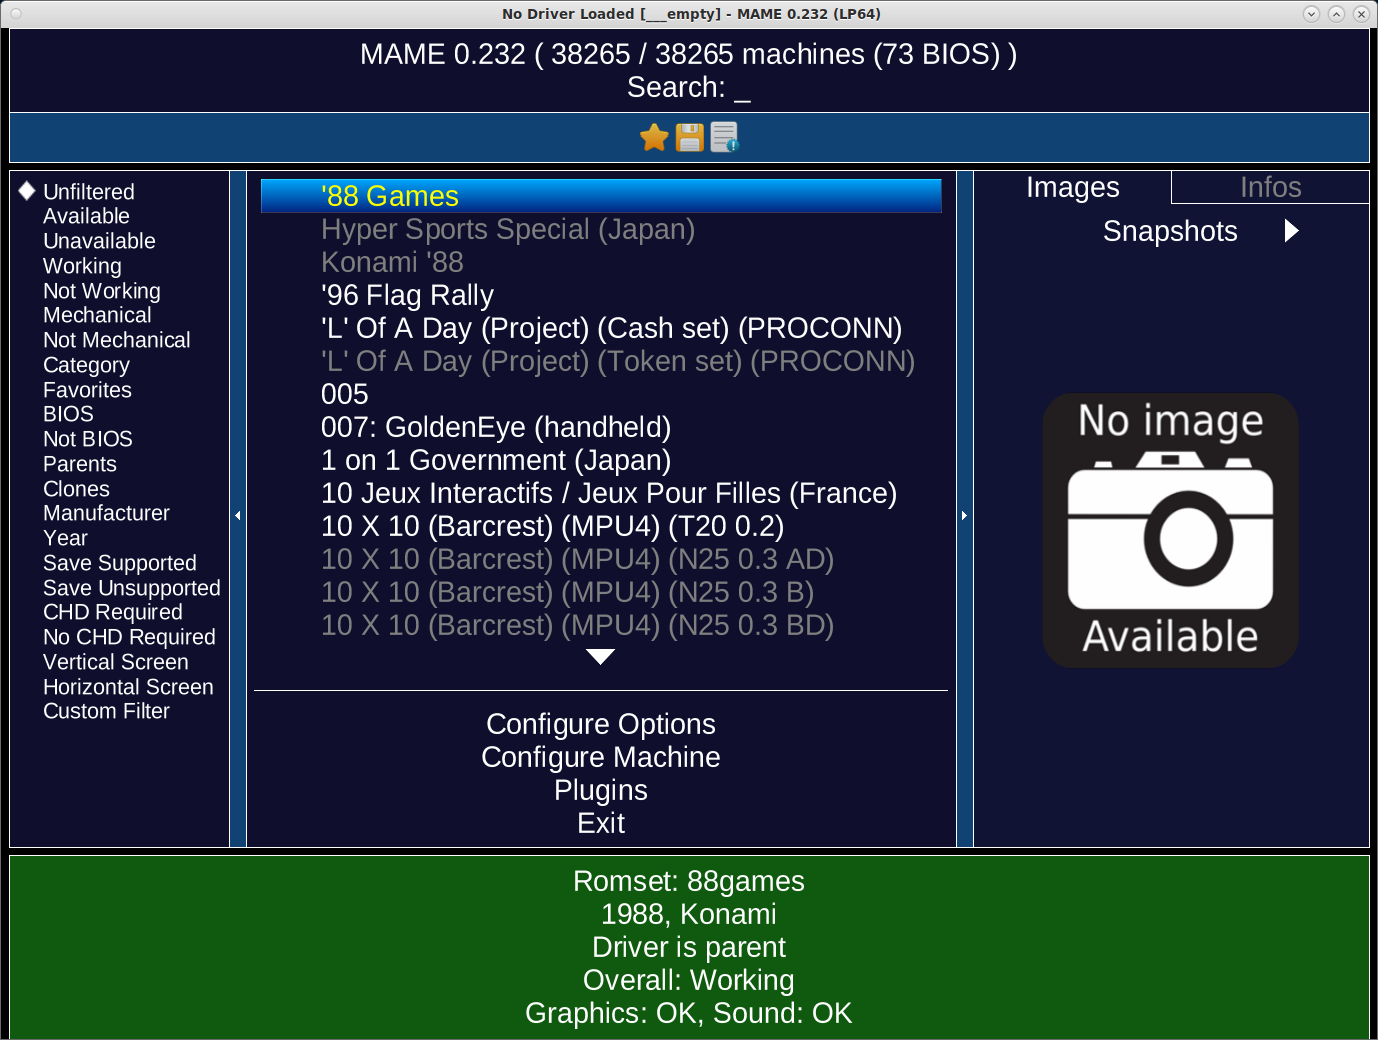
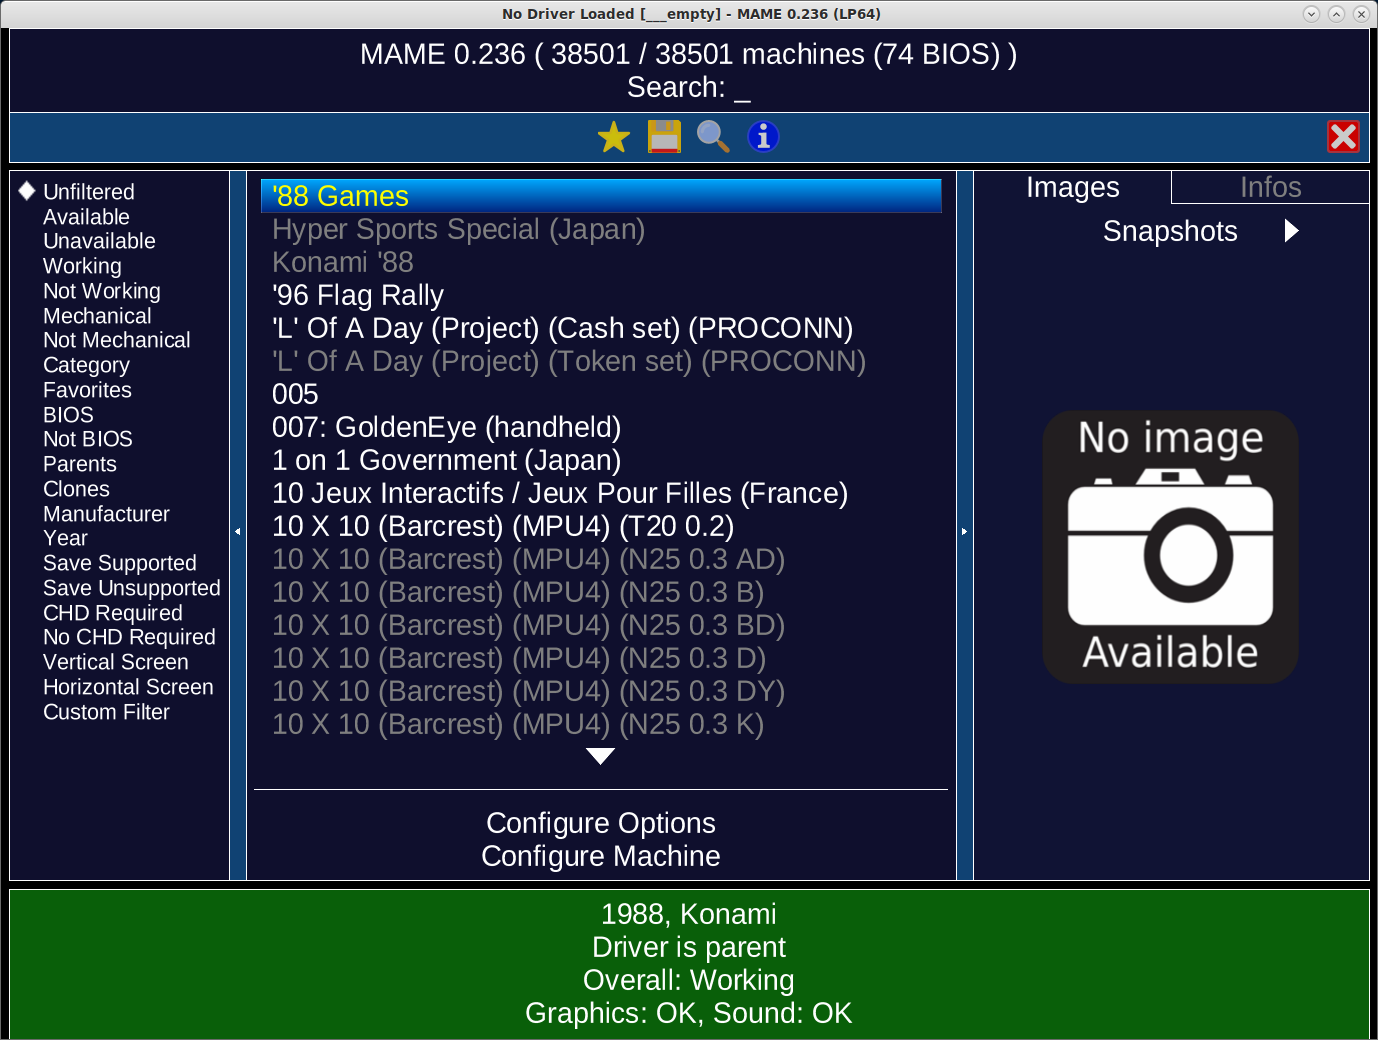
Atualiza as imagens com a nova interface do mame e outros ajustes

diff --git a/source/usingmame/usingmame.rst b/source/usingmame/usingmame.rst
@@ -31,9 +31,10 @@ Inicie o MAME clicando duas vezes no executável:
 	\clearpage
 
 Boa parte da interface já foi traduzida, para trocar o idioma da
-interface vá em ``Configure Options -> Customize UI``, clique duas vezes
-em ``Language``, role para baixo e selecione **Portuguese (Brazil)**.
-Retorne e **Salve a configuração**.
+interface vá em :guilabel:`Configure Options` -->
+:guilabel:`Customize UI`, clique duas vezes em :guilabel:`Language`,
+role para baixo e selecione :guilabel:`Portuguese (Brazil)`. Retorne e
+:guilabel:`Salve a configuração`.
 
 A versão da tradução compatível com este documento pode ser encontrado
 em `mamedoc <https://github.com/wtuemura/mamedoc>`_ ou mais precisamente
@@ -95,33 +96,35 @@ das máquinas mostram um ícone.
 	\clearpage
 
 Para iniciar uma máquina na lista que aparece ao centro da tela clique
-2x no nome da máquina desejada. Pressione **F12** durante a execução da
-máquina para que seja salvo um **print da tela** na pasta **snap**.
-Ao encerrar a emulação a imagem da tela vai aparecer do lado direito da
-interface do MAME.
+2x no nome da máquina desejada. Pressione :kbd:`F12` durante a execução
+da máquina para que seja salvo uma **captura da tela** na pasta
+**snap**. Ao encerrar a emulação a imagem da tela vai aparecer do lado
+direito da interface do MAME.
 
-.. figure:: images/mame_print_tela.png
+.. figure:: images/mame_captura_tela.png
 	:width: 100%
 	:align: center
 	:figclass: align-center
-	:alt: Print de tela
+	:alt: Captura da tela
 
 Ainda no site do **progetto-SNAPS** é possível encontrar imagens para
-completar todas as abas dentro de **Imagens** como **Gabinetes**,
-**Painéis de controle**, **PCB** e vários outros. Porém quanto mais
-itens visuais forem adicionados, mais e mais o MAME vai demorar para
-iniciar por causa dos arquivos extras, leve isso em consideração.
+completar todas as abas dentro de :guilabel:`Imagens` como
+:guilabel:`Gabinetes`, :guilabel:`Painéis de controle`, :guilabel:`PCI`
+e vários outros. Porém quanto mais itens visuais forem adicionados, mais
+e mais o MAME vai demorar para iniciar por causa dos arquivos extras,
+leve isso em consideração.
 
 .. raw:: latex
 
 	\clearpage
 
 As máquinas que você mais gosta de jogar podem ser adicionadas aos
-**Favoritos**, na interface durante a seleção da máquina clique com o
-botão direito em cima do nome da máquina e selecione a opção
-**Adicione aos favoritos**. Caso tenha iniciado o MAME pela linha de
-comando ou caso a máquina já esteja rodando, pressione **TAB** para
-abrir a tela de opções e escolha **Adicione aos favoritos**.
+:guilabel:`Favoritos`, na interface durante a seleção da máquina clique
+com o botão direito em cima do nome da máquina e selecione a opção
+:guilabel:`Adicione aos favoritos`. Caso tenha iniciado o MAME pela
+linha de comando ou caso a máquina já esteja rodando, pressione
+:kbd:`TAB` para abrir a tela de opções e escolha
+:guilabel:`Adicione aos favoritos`.
 
 .. figure:: images/mame_favoritos.png
 	:width: 100%
@@ -259,8 +262,8 @@ completo, etc.
 
 	\clearpage
 
-Vamos iniciar o Expert XP-800 da Gradiente (expert10), porém, verifique
-antes se a ROM existe::
+Vamos iniciar o **Expert XP-800** da Gradiente (expert10), porém,
+verifique antes se a ROM existe::
 
 	mame -verifyroms expert10
 	romset expert10 [expert13] is good
@@ -329,9 +332,9 @@ Para usar quaisquer itens da lista de slots como o
 
 	mame expert10 -centronics covox
 
-O slot **cartslot1** e **cartslot2** são para os dois cartuchos, para
-usar o **covox** junto com o cartucho de **midi** e o **moonsound**
-faça::
+O slot :guilabel:`cartslot1` e :guilabel:`cartslot2` são para os dois
+cartuchos, para usar o **covox** junto com o cartucho de **midi** e o
+**moonsound** faça::
 
 	mame expert10 -centronics covox -cartslot1 bm_012 -cartslot2 moonsound
 
@@ -344,9 +347,9 @@ com o comando::
 	mame expert10 -centronics covox -cartslot1 bm_012 -midiout1 "VirtualMIDISynth #1" -cartslot2 moonsound
 
 Também é possível selecionar os mesmos itens através da interface do
-MAME, depois de iniciar o **expert10** pressione **Screen Lock** ou
-**SrcLk** dependendo do teclado, para usar o teclado do seu computador,
-pressione **Tab** e vá em **Dispositivos de slot**:
+MAME, depois de iniciar o **expert10** pressione :kbd:`ScrLk` para usar
+o teclado do seu computador, pressione :kbd:`Tab` e vá em
+:guilabel:`Dispositivos de slot`:
 
 .. figure:: images/mame_slot_options.png
 	:width: 100%
@@ -357,15 +360,16 @@ pressione **Tab** e vá em **Dispositivos de slot**:
 Repare que todos os itens compatíveis com o sistema também estão
 disponíveis pela interface ao clicar nas setas esquerda e direita do
 teclado. Para surtir efeito é preciso selecionar os itens desejados e
-clicar duas vezes em **Reinicie**.
+clicar duas vezes em :guilabel:`Redefine` para que o MAME seja
+reiniciado com estas opções definidas.
 
 .. raw:: latex
 
 	\clearpage
 
-Através do **Gerenciador de arquivos** é possível carregar arquivos
-avulsos, talvez uma gravação de uma fita k7 feita por você, a imagem de
-algum cartucho que só você tenha, que tenha baixado, etc.
+Através do :guilabel:`Gerenciador de arquivos` é possível carregar
+arquivos avulsos, talvez uma gravação de uma fita k7 feita por você, a
+imagem de algum cartucho que só você tenha, que tenha baixado, etc.
 
 .. figure:: images/mame_gerenciador.png
 	:width: 100%
@@ -386,7 +390,10 @@ Para carregar uma imagem de uma fita k7 por exemplo, faça::
 
 	mame expert10 -cass msx/zanac.cas 
 
-Já na interface do sistema carregue a imagem com o comando
+Observe que ``msx/zanac.cas`` é uma pasta chamada **msx** dentro do
+diretório onde o executável do MAME se encontra, se os seus arquivos
+estão num outro lugar, informe o caminho completo para este arquivo. Já
+na interface do sistema carregue a imagem com o comando
 ``load"cas:",r``, se  imagem for compatível com o sistema emulado deverá
 aparecer **Found: ZANAC** ou qualquer outra imagem que esteja sendo
 carregada. Caso a mensagem **Found:** não apareça, significa que talvez
@@ -401,12 +408,12 @@ está com algum problema, não foi capturada corretamente, etc.
 
 No topo da tela há o contador e a leitura da imagem é feita em tempo
 real, assim como é feito no hardware físico. Para acelerar o processo,
-clique em **Screen Lock** ou **SrcLk** dependendo do teclado para usar o
-teclado do computador e pressione **Page Down** ou **PgDn** no Linux ou
-**Insert** no Windows ou as teclas **F8** e **F9** para acelerar a
-emulação e com isso acelerar o processo de leitura. Ao terminar,
-pressione **F9** até aparecer **auto (0/10) 100%** para que a emulação
-volte para a velocidade normal.
+clique em :kbd:`SrcLk` para usar o teclado do computador e pressione
+:kbd:`PgDn` no Linux ou :kbd`Insert` no Windows ou as teclas :kbd:`F8` e
+:kbd:`F9` para acelerar a emulação e com isso acelerar o processo de
+leitura. Ao terminar, pressione :kbd:`F9` até aparecer
+:guilabel:`auto (0/10) 100%` no topo da tela para que a emulação volte
+para a velocidade normal.
 
 Este foi apenas um simples exemplo de centenas de outros sistemas que o
 MAME pode emular como o Macintosh, X68000, etc. 

diff --git a/source/usingmame/mamemenus.rst b/source/usingmame/mamemenus.rst
@@ -509,9 +509,9 @@ da máquina emulada e as suas respectivas opções, quando houver.
 Snapshot
 ^^^^^^^^
 
-Tira um print da tela, caso esteja usando uma **ilustração** e ela tiver
-um nome, faça um clique duplo em cima do nome para que o print da tela
-seja feito.
+Faz uma captura da tela, caso esteja usando uma **ilustração** e ela
+tiver um nome, faça um clique duplo em cima do nome para que a captura
+da tela seja feito.
 
 .. raw:: html
 
@@ -527,7 +527,7 @@ seja feito.
 
 * **Screen 0 Pixel Aspect (X:Y)**
 
-  Faz um print da tela usando a proporção original (SAR) como 8:7,
+  Faz uma captura da tela usando a proporção original (SAR) como 8:7,
   12:7, etc.
 
 .. raw:: html
@@ -536,7 +536,7 @@ seja feito.
 
 * **Cocktail**
 
-  Faz um print da tela espelhada no eixo vertical.
+  Faz uma captura da tela espelhada no eixo vertical.
 
 .. raw:: html
 
@@ -544,15 +544,15 @@ seja feito.
 
 * **Rotação**
 
-  Faz um print da tela com a tela rotacionada como demonstrado no
+  Faz uma captura da tela com a tela rotacionada como demonstrado no
   exemplo anterior.
 
 		O valor predefinido é **None**.
 
 * **Aproxime a área da tela**
 
-  Quando a máquina estiver usando uma artwork onde exista uma tela, o
-  print da tela será feito somente desta região.
+  Quando a máquina estiver usando uma artwork onde exista uma tela, a
+  captura da tela será feita somente desta área.
 
 		O valor predefinido é **Desligado**.
 
@@ -3112,7 +3112,7 @@ Permite que você configure individualmente cada máquina selecionada.
 
 	<p></p>
 
-* **Adiciona aos Favoritos**
+* **Adicione aos favoritos**
 
   Adiciona a máquina selecionada aos seus favoritos.
 
